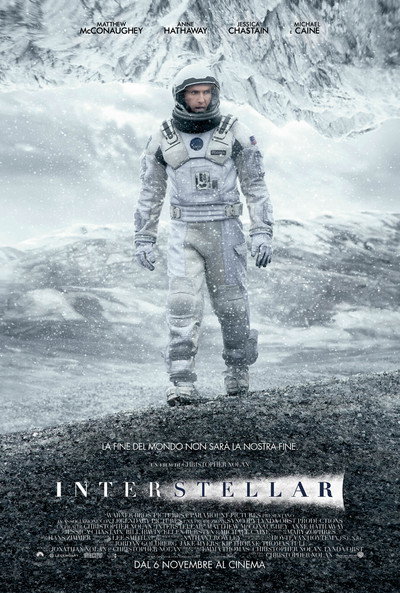
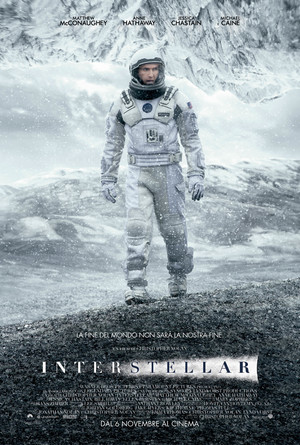
craato layout fluid con masonry

diff --git a/app/assets/stylesheets/application.scss b/app/assets/stylesheets/application.scss
@@ -10,6 +10,9 @@
  * defined in the other CSS/SCSS files in this directory. It is generally better to create a new
  * file per style scope.
  *
+ *= require 'masonry/transitions'
+ *= require 'masonry/centered.css'
+ *= require 'masonry/gutters'
  *= require_tree .
  *= require_self
  */
@@ -19,7 +22,7 @@
 @import "bootstrap";
 
 body {
-background: #AA4847;
+   background: #AA4847;
 }
 
 .review_title {
@@ -29,16 +32,35 @@ background: #AA4847;
 .reviews {
    padding: 15px 0;
    border-bottom: solid 1px #EAEAEA;
+
    .star-rating {
       padding-bottom: 8px;
    }
 }
 
 .modal {
-   .error{
-      color:red;
+   .error {
+      color: red;
       font-size: 0.8em;
       margin-bottom: 1em;
-      }
+   }
 }
 
+#movies {
+  padding: 5px;
+  margin-bottom: 20px;
+  border-radius: 5px;
+  clear: both;
+  -webkit-border-radius: 5px;
+     -moz-border-radius: 5px;
+          border-radius: 5px;
+}
+
+.box {
+   float: left;
+   margin: 15px;
+}
+
+.clearfix:before, .clearfix:after { content: ""; display: table; }
+.clearfix:after { clear: both; }
+.clearfix { zoom: 1; }

diff --git a/app/assets/javascripts/application.js b/app/assets/javascripts/application.js
@@ -11,10 +11,17 @@
 // about supported directives.
 //
 //= require jquery
+//= require jquery.turbolinks
 //= require jquery_ujs
+//= require masonry/jquery.masonry
+//= require masonry/modernizr-transitions
+//= require masonry/jquery.imagesloaded.min
 //= require bootstrap-sprockets
 //= require turbolinks
 //= require plugin
 //= require_tree ./global
+//= require_tree ./specific
+
+
 
 

diff --git a/app/models/movie.rb b/app/models/movie.rb
@@ -5,6 +5,6 @@ class Movie < ActiveRecord::Base
    
    validates  :title, :description, presence: true
 
-   has_attached_file :image, styles: { medium: "400x600>" }
+   has_attached_file :image, styles: { medium: "300x445>" }
    validates_attachment_content_type :image, content_type: /\Aimage\/.*\Z/
 end
